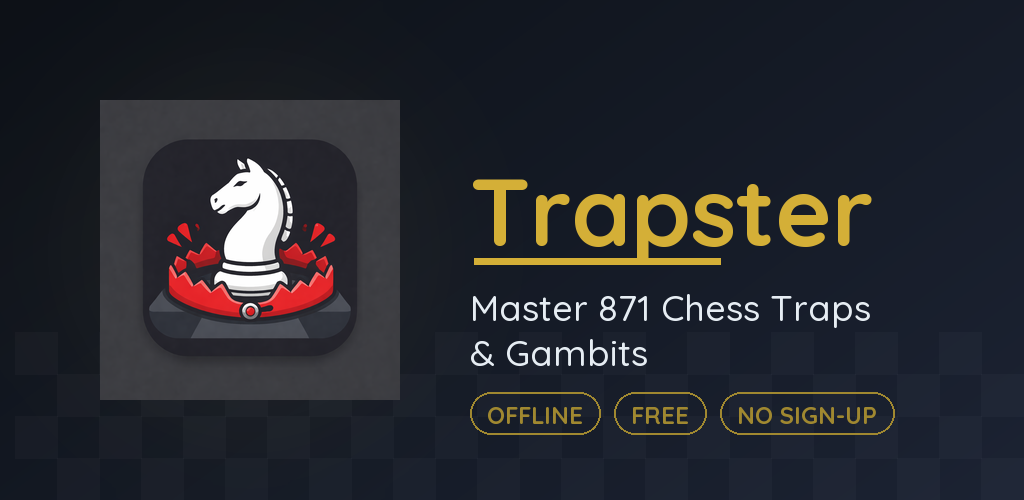
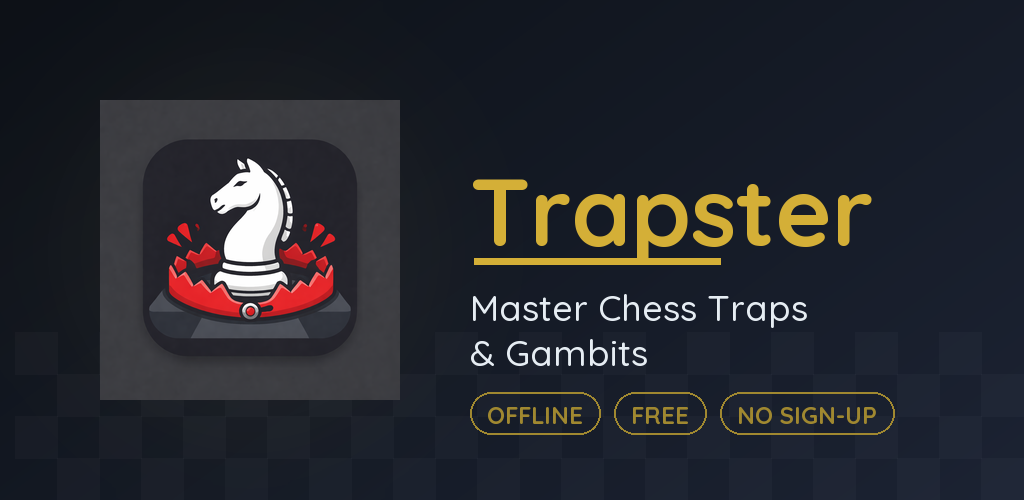
copy: stop quoting a trap count anywhere in marketing
The library grows, so any hardcoded number goes stale — and a Play listing
is slow to re-approve once it is wrong. Replaced every count with wording
that stays true as traps are added ("the complete library", "a huge library
of hand-picked traps").

- Site: page titles, meta/OG/Twitter descriptions, manifest, hero copy,
  /traps hub (dropped the computed total), trap-page CTAs and footer links.
- Homepage stat tile "871 Unique Traps" -> "FREE / No Subscription", which
  is both stable and a stronger selling point.
- Store listing + regenerated feature graphic, plus an ASO note not to
  reintroduce a count.
- pubspec description.

The in-app "learned X of Y" progress counter is left as-is: it reads
chessTraps.length, so it tracks the real library size automatically.

Changed region(s): [[0.5625, 0.57, 0.8438, 0.66]]

diff --git a/webpage/src/app/traps/page.tsx b/webpage/src/app/traps/page.tsx
@@ -1,21 +1,13 @@
 import { Metadata } from "next";
 import Link from "next/link";
-import {
-  getAllTraps,
-  popularTraps,
-  trapsByOpening,
-  SITE_URL,
-  APP_NAME,
-} from "@/lib/traps";
-
-const total = getAllTraps().length;
+import { popularTraps, trapsByOpening, SITE_URL, APP_NAME } from "@/lib/traps";
 
 export const metadata: Metadata = {
   title: "All Chess Traps & Gambits — Complete List",
-  description: `Browse all ${total} chess opening traps and gambits — from the Scholar's Mate and Fried Liver to the Danish Gambit. Learn each one and practice it in the ${APP_NAME} app.`,
+  description: `Browse every chess opening trap and gambit — from the Scholar's Mate and Fried Liver to the Danish Gambit. Learn each one and practice it in the ${APP_NAME} app.`,
   alternates: { canonical: `${SITE_URL}/traps` },
   openGraph: {
-    title: `All ${total} Chess Traps & Gambits`,
+    title: "All Chess Traps & Gambits",
     description:
       "The complete library of chess opening traps — learn, practice and master them.",
     url: `${SITE_URL}/traps`,
@@ -32,8 +24,8 @@ export default function TrapsHub() {
   const jsonLd = {
     "@context": "https://schema.org",
     "@type": "CollectionPage",
-    name: `All ${total} Chess Traps & Gambits`,
-    description: `The complete library of ${total} chess opening traps and gambits.`,
+    name: "All Chess Traps & Gambits",
+    description: "The complete library of chess opening traps and gambits.",
     url: `${SITE_URL}/traps`,
   };
 
@@ -45,12 +37,12 @@ export default function TrapsHub() {
       />
 
       <header className="hub-header">
-        <span className="trap-tag">{total} traps · fully offline</span>
+        <span className="trap-tag">Complete library · fully offline</span>
         <h1 className="hub-title">Chess Traps &amp; Gambits</h1>
         <p className="lede">
-          The complete library of {total} chess opening traps — from beginner
-          classics like the Scholar&apos;s Mate to sharp master gambits. Tap any
-          trap to learn it, then master it move-by-move in the {APP_NAME} app.
+          The complete library of chess opening traps — from beginner classics
+          like the Scholar&apos;s Mate to sharp master gambits. Tap any trap to
+          learn it, then master it move-by-move in the {APP_NAME} app.
         </p>
       </header>
 

diff --git a/webpage/src/app/layout.tsx b/webpage/src/app/layout.tsx
@@ -20,12 +20,12 @@ export const viewport: Viewport = {
 
 export const metadata: Metadata = {
   title: {
-    default: "Trapster — Master 871 Chess Traps & Gambits",
+    default: "Trapster — Master Chess Traps & Gambits",
     template: "%s | Trapster",
   },
   metadataBase: new URL("https://chess-traps.vercel.app"),
   description:
-    "Stop losing to early blunders. Learn and practice 871 chess opening traps and gambits with an interactive board, engine analysis and offline play — the Trapster app.",
+    "Stop losing to early blunders. Learn and practice chess opening traps and gambits with an interactive board, engine analysis and offline play — the Trapster app.",
   keywords: [
     "chess traps",
     "chess opening traps",
@@ -45,9 +45,9 @@ export const metadata: Metadata = {
     telephone: false,
   },
   openGraph: {
-    title: "Trapster — Master 871 Chess Traps & Gambits",
+    title: "Trapster — Master Chess Traps & Gambits",
     description:
-      "Learn and practice 871 chess opening traps and gambits with an interactive board and engine analysis.",
+      "Learn and practice chess opening traps and gambits with an interactive board and engine analysis.",
     url: "https://chess-traps.vercel.app",
     siteName: "Trapster",
     locale: "en_US",
@@ -57,15 +57,15 @@ export const metadata: Metadata = {
         url: "/hero.png",
         width: 1200,
         height: 800,
-        alt: "Trapster — Master 871 Chess Traps & Gambits",
+        alt: "Trapster — Master Chess Traps & Gambits",
       },
     ],
   },
   twitter: {
     card: "summary_large_image",
-    title: "Trapster — Master 871 Chess Traps & Gambits",
+    title: "Trapster — Master Chess Traps & Gambits",
     description:
-      "Learn and practice 871 chess opening traps and gambits with an interactive board and engine analysis.",
+      "Learn and practice chess opening traps and gambits with an interactive board and engine analysis.",
     images: ["/hero.png"],
   },
   robots: {

diff --git a/webpage/src/app/page.tsx b/webpage/src/app/page.tsx
@@ -27,7 +27,7 @@ export default function Home() {
             <span className="accent-text">CHESS GAME</span>
           </h1>
           <p className="lede">
-            Learn 871 chess opening traps and gambits with an interactive board, play
+            Learn chess opening traps and gambits with an interactive board, play
             them out live against Stockfish, and get a hint or a plain-English
             explanation whenever you get stuck.
           </p>
@@ -36,7 +36,7 @@ export default function Home() {
               Get it on Google Play
             </Link>
             <Link href="/traps" className="btn-outline">
-              Browse All 871 Traps
+              Browse All Traps
             </Link>
           </div>
         </div>
@@ -56,8 +56,8 @@ export default function Home() {
         {/* Floating Stats */}
         <div className="floating-stats reveal" style={{ animationDelay: '0.5s' }}>
           <div className="stat-item">
-            <span className="stat-value">871</span>
-            <span className="stat-label">Unique Traps</span>
+            <span className="stat-value">FREE</span>
+            <span className="stat-label">No Subscription</span>
           </div>
           <div className="stat-item">
             <span className="stat-value">24/7</span>
@@ -115,7 +115,7 @@ export default function Home() {
         </div>
         <div style={{ marginTop: "2rem" }}>
           <Link href="/traps" className="btn-outline">
-            Browse all 871 traps →
+            Browse all traps →
           </Link>
         </div>
       </section>

diff --git a/webpage/src/app/trap/[id]/page.tsx b/webpage/src/app/trap/[id]/page.tsx
@@ -180,8 +180,8 @@ export default async function TrapPage({ params }: Props) {
         <p className="trap-para">
           Open the {trap.trapName} in the {APP_NAME} app to play it out on a live
           board, drill it in practice mode, and learn how to avoid it when
-          it&apos;s set for you — plus 870 more chess traps and gambits, fully
-          offline.
+          it&apos;s set for you — along with the full library of chess traps and
+          gambits, fully offline.
         </p>
         <OpenInApp trapId={trap.id} />
       </section>
@@ -202,7 +202,7 @@ export default async function TrapPage({ params }: Props) {
 
       <div className="trap-foot">
         <Link href="/traps" className="btn-outline">
-          ← Browse all 871 chess traps
+          ← Browse all chess traps
         </Link>
       </div>
     </main>

diff --git a/webpage/src/app/manifest.ts b/webpage/src/app/manifest.ts
@@ -5,7 +5,7 @@ export default function manifest(): MetadataRoute.Manifest {
     name: "Trapster — Chess Traps & Gambits",
     short_name: "Trapster",
     description:
-      "Learn and practice 871 chess opening traps and gambits with an interactive board and engine analysis.",
+      "Learn and practice chess opening traps and gambits with an interactive board and engine analysis.",
     start_url: "/",
     display: "standalone",
     background_color: "#000000",

diff --git a/store/play_listing.md b/store/play_listing.md
@@ -7,18 +7,18 @@
 `Trapster: Traps & Gambits`  ← 25 chars
 
 ## Short description (max 80)
-`Master 871 chess traps & gambits. Practice openings, tactics & win faster.`  ← 74 chars
+`Master chess opening traps & gambits. Practice tactics and win faster.`  ← 70 chars
 
 ---
 
 ## Full description (max 4000)
 
-Trapster is the fastest way to learn the chess opening traps and gambits that win games. Study a library of **871 real traps** — from the Fried Liver and Légal's Mate to the Danish Gambit and Blackburne Shilling — then drill them until they're second nature.
+Trapster is the fastest way to learn the chess opening traps and gambits that win games. Study a huge library of **real, hand-picked traps** — from the Fried Liver and Légal's Mate to the Danish Gambit and Blackburne Shilling — then drill them until they're second nature.
 
 Whether you're a beginner who keeps falling for the same tricks or a club player hunting for a sharper opening repertoire, Trapster turns opening theory into muscle memory.
 
 ▶ WHY PLAYERS LOVE TRAPSTER
-• 871 hand-picked chess traps, gambits and opening tricks
+• A huge library of hand-picked chess traps, gambits and opening tricks
 • Learn the idea behind every move — not just memorization
 • Practice Mode: play the trap yourself, move by move
 • Avoid-the-Trap Mode: train to escape when the trap is set for YOU
@@ -46,9 +46,10 @@ Keywords: chess traps, opening traps, chess gambits, chess openings, chess tacti
 ---
 
 ## What's new (release notes template, max 500)
-`New: local 1v1 pass-and-play, natural piece flipping, sound effects, a refreshed premium look, and faster, smoother study. Now with 871 traps to master.`
+`New: local 1v1 pass-and-play, natural piece flipping, sound effects, a refreshed premium look, and faster, smoother study. Plus more traps to master.`
 
 ## ASO notes
 - Primary keyword to own: **Trapster** (brandable, no competitor collision).
+- Do NOT quote a trap count anywhere: the library grows, and a hardcoded number goes stale (and Play listings are slow to re-approve).
 - Keyword tail carries the search volume: traps, gambits, openings, tactics.
 - Keep the app name identical across Play title, icon label ("Trapster") and website `<title>` so brand searches converge.
